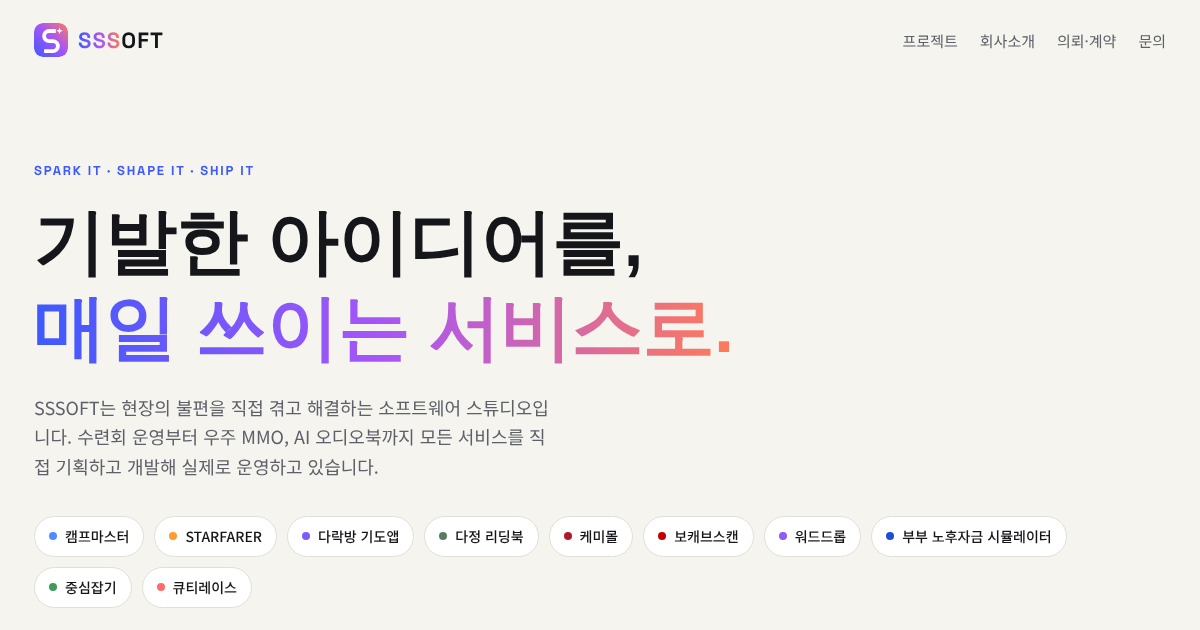
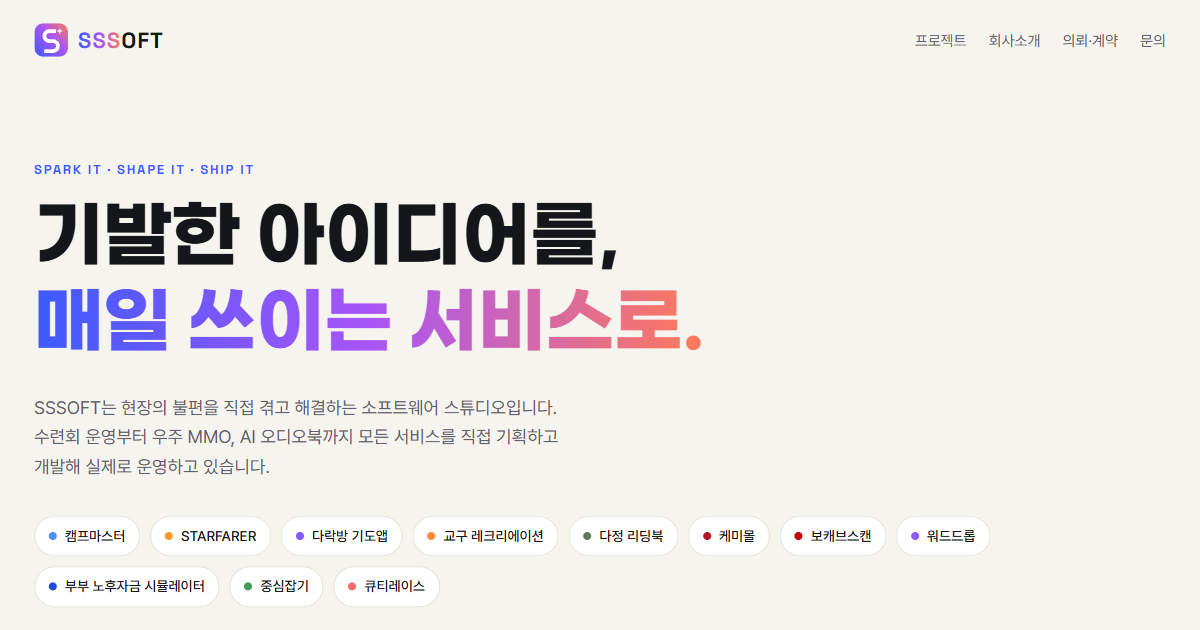
홈 숫자 갱신(서비스 11개·기능 340+), 다정 리딩북 업데이트: 오디오북·웹북 모드, 본문 속 장면 삽화, 고전 34,987권, 삽화 스타일 5가지

diff --git a/public/data.js b/public/data.js
@@ -1301,8 +1301,16 @@ window.PROJECTS=[
   ],
   "gallery": [
    {
+    "src": "gallery/readingbook-webbook-mode.jpg",
+    "cap": "웹북 · 『셜록 홈즈의 모험』. 플레이어 없이 책 한 쪽처럼 읽고, 장면 삽화가 그 장면이 시작되는 문단 위에 놓입니다"
+   },
+   {
+    "src": "gallery/readingbook-audiobook-mode.jpg",
+    "cap": "오디오북 · 『허클베리 핀의 모험』. 낭독 중인 문장이 진하게 표시되고, 본문 속 삽화와 함께 들으며 따라 읽습니다"
+   },
+   {
     "src": "gallery/readingbook-shelf.jpg",
-    "cap": "나의 서재 · 고전 도서관에서 담은 책과 직접 찍은 책이 함께 꽂히고, 책마다 어울리는 화풍(어반 스케치, 실사 사진, 3D 애니메이션 등)으로 처음 그린 장면 삽화가 표지가 됩니다. 외국어 책에는 한국어 번역 표시가 붙습니다"
+    "cap": "나의 서재 · 고전 도서관에서 담은 책과 직접 찍은 책이 함께 꽂히고, 책마다 어울리는 화풍(어반 스케치, 수채 애니메, 3D 애니메이션 등)으로 처음 그린 장면 삽화가 표지가 됩니다. 외국어 책에는 한국어 번역 표시가 붙습니다"
    },
    {
     "src": "gallery/readingbook-newbook.jpg",
@@ -1322,7 +1330,7 @@ window.PROJECTS=[
    },
    {
     "src": "gallery/readingbook-korean-list.jpg",
-    "cap": "고전 도서관 · 책이 정말 많습니다. 한국 고전의 단편·장편·시·희곡·동화가 작가와 분량, 쪽수와 함께 줄줄이 이어지고, 이만큼 보고도 '더 보기'에 38,692권이 남습니다"
+    "cap": "고전 도서관 · 책이 정말 많습니다. 한국 고전의 단편·장편·시·희곡·동화가 작가와 분량, 쪽수와 함께 줄줄이 이어지고, 이만큼 보고도 '더 보기'에도 3만 권 넘게 남습니다"
    }
   ],
   "galleryWide": true,
@@ -1332,8 +1340,8 @@ window.PROJECTS=[
    "cap": "전체화면으로 들으면 장면 삽화가 화면을 가득 채우고, 지금 읽는 문장이 자막으로 따라 나옵니다"
   },
   "frame": "phone",
-  "tagline": "원어 판본 기준 고전 문학 38,812권을 5개 언어로. 국내에 아직 번역되지 않은 고전까지 우리말 오디오북으로 듣고, 내 책은 사진으로 찍어 들으며, 장면마다 삽화까지 그려 줍니다",
-  "overview": "다정 리딩북의 고전 도서관에는 저작권이 끝난 국내외 고전 38,812권이 들어 있어, 책을 고르고 내 책장에 담기만 하면 바로 읽고 들을 수 있습니다. 영어·일본어·독일어·중국어로 쓰인 작품은 처음 열 때 한국어로 번역해 낭독하므로, 국내에 아직 번역되지 않은 수많은 고전도 우리말 오디오북으로 들을 수 있습니다. 가지고 있는 종이책도 몇 장을 사진으로 찍으면 다정 리딩북이 글을 옮겨 적고, 장면의 분위기를 읽어 AI 성우가 감정을 담아 낭독합니다. 영어 원서처럼 다른 언어로 쓰인 책도 사진에서 언어를 알아내 한국어로 번역해 읽어 주고, 원문은 아래에서 함께 볼 수 있습니다. 듣는 동안에는 3D 애니메이션, 어반 스케치, 수채 애니메, 모던 일러스트, 실사 사진, 코믹북 중 고른 스타일로 장면 삽화를 그려 주어 그림책처럼 즐길 수 있습니다. PC, 태블릿, 모바일 어디서나 쓸 수 있고, 넓은 화면에서는 본문과 낭독·삽화를 나란히 띄워 읽으며 들을 수 있습니다.",
+  "tagline": "원어 판본 기준 고전 문학 34,987권을 5개 언어로. 귀로 듣는 오디오북과 눈으로 읽는 웹북을 한 번에 오가고, 본문 속 장면 삽화로 책 한 권이 그림책이 됩니다",
+  "overview": "다정 리딩북의 고전 도서관에는 저작권이 끝난 국내외 고전 34,987권이 들어 있어, 책을 고르고 내 책장에 담기만 하면 바로 읽고 들을 수 있습니다. 영어·일본어·독일어·중국어로 쓰인 작품은 처음 열 때 한국어로 번역해 낭독하므로, 국내에 아직 번역되지 않은 수많은 고전도 우리말 오디오북으로 들을 수 있습니다. 가지고 있는 종이책도 몇 장을 사진으로 찍으면 다정 리딩북이 글을 옮겨 적고, 장면의 분위기를 읽어 AI 성우가 감정을 담아 낭독합니다. 영어 원서처럼 다른 언어로 쓰인 책도 사진에서 언어를 알아내 한국어로 번역해 읽어 주고, 원문은 아래에서 함께 볼 수 있습니다. 장면이 바뀔 때마다 3D 애니메이션, 어반 스케치, 수채 애니메, 모던 일러스트, 코믹북 중 책에 어울리는 스타일로 삽화를 그려, 그림이 그 장면이 시작되는 문단 바로 위에 들어갑니다. 고전은 인물의 얼굴과 옷차림이 처음부터 끝까지 같은 모습으로 그려집니다. 한 권을 귀로 듣는 오디오북과 눈으로 읽는 웹북 중 원하는 방식으로 즐길 수 있고, 웹북에서는 스크롤만 내리면 다음 분량이 삽화와 함께 끝없이 이어집니다. PC, 태블릿, 모바일 어디서나 쓸 수 있고, 넓은 화면에서는 본문과 낭독·삽화를 나란히 띄워 읽으며 들을 수 있습니다.",
   "features": [
    {
     "title": "장면마다 다른 연기",
@@ -1379,17 +1387,21 @@ window.PROJECTS=[
   ],
   "flagship": [
    {
-    "title": "고전 문학 원서 38,812권",
+    "title": "고전 문학 원서 34,987권",
     "hot": true,
-    "desc": "원어 판본 기준으로 저작권이 끝난 국내외 고전 문학 38,812권(영어 25,465 · 일본어 11,206 · 독일어 1,500 · 한국어 470 · 중국어 번체 171)이 들어 있습니다. 듣는 사람의 언어(한국어·영어·일본어·중국어 번체·독일어)로 번역해 들려주므로, 5개 언어로 들을 수 있는 판본은 194,060가지입니다. 촬영할 필요 없이 '내 책장에 담기'만 누르면 바로 읽고 들을 수 있고, 다른 언어 작품은 처음 열 때 번역합니다."
+    "desc": "원어 판본 기준으로 저작권이 끝난 국내외 고전 문학 34,987권(영어 22,648 · 일본어 10,319 · 독일어 1,335 · 한국어 527 · 중국어 번체 158)이 들어 있습니다. 듣는 사람의 언어(한국어·영어·일본어·중국어 번체·독일어)로 번역해 들려주므로, 5개 언어로 들을 수 있는 판본은 174,935가지입니다. 촬영할 필요 없이 '내 책장에 담기'만 누르면 바로 읽고 들을 수 있고, 다른 언어 작품은 처음 열 때 번역합니다."
+   },
+   {
+    "title": "오디오북 · 웹북 두 가지 모드",
+    "desc": "분량마다 제목 옆 '오디오북 | 웹북' 버튼으로 듣기와 읽기를 바꿉니다. 웹북에서는 플레이어가 사라지고 책 한 쪽처럼 본문만 남으며, 스크롤을 내리면 다음 분량이, 올리면 앞 분량이 이어져 한 권을 끊김 없이 읽습니다. 읽던 자리는 그대로 기억되어 오디오북으로 바꾸면 그 자리부터 이어서 들려줍니다."
+   },
+   {
+    "title": "본문 속 장면 삽화",
+    "desc": "장면이 바뀔 때마다 삽화를 그려 그 장면이 시작되는 문단 바로 위에 넣습니다. 그림은 잘리지 않고 제 모양 그대로, 가장자리가 종이에 스며들듯 부드럽게 놓이고, 누르면 크게 볼 수 있습니다. 고전은 앞서 그린 그림을 최대 8장까지 참고해 그리므로 인물이 처음부터 끝까지 같은 얼굴로 나옵니다. 스타일은 3D 애니메이션·어반 스케치·수채 애니메·모던 일러스트·코믹북 5가지입니다."
    },
    {
     "title": "원서도 한글로 낭독",
     "desc": "사진 속 책의 언어를 자동으로 알아내고, 한국어가 아니면 한국어로 번역해 AI 성우가 읽어 줍니다. 원문은 아래에서 함께 볼 수 있어 원서 공부에도 좋습니다."
-   },
-   {
-    "title": "6가지 스타일 장면 삽화",
-    "desc": "3D 애니메이션, 어반 스케치, 수채 애니메, 모던 일러스트, 실사 사진, 코믹북 중 고른 스타일로 장면이 바뀔 때마다 삽화를 새로 그려, 듣는 책이 그림책이 됩니다."
    },
    {
     "title": "촬영 한 번으로 오디오북 완성",
@@ -1407,11 +1419,11 @@ window.PROJECTS=[
   "stages": [
    {
     "stage": "고전 도서관",
-    "summary": "저작권이 끝난 국내외 고전 38,812권",
+    "summary": "저작권이 끝난 국내외 고전 34,987권",
     "items": [
      {
-      "title": "원서 38,812권 고전 목록",
-      "desc": "원어 판본 기준으로 영어 25,465권, 일본어 11,206권, 독일어 1,500권, 한국어 470권, 중국어 번체 171권이 들어 있습니다. 한국어 작품은 위키문헌, 영어·독일어·중국어 작품은 Project Gutenberg, 일본어 작품은 아오조라 문고에서 가져옵니다."
+      "title": "원서 34,987권 고전 목록",
+      "desc": "원어 판본 기준으로 영어 22,648권, 일본어 10,319권, 독일어 1,335권, 한국어 527권, 중국어 번체 158권이 들어 있습니다. 한국어 작품은 위키문헌, 영어·독일어·중국어 작품은 Project Gutenberg, 일본어 작품은 아오조라 문고에서 가져옵니다."
      },
      {
       "title": "제목·작가·언어·장르로 찾기",
@@ -1449,7 +1461,7 @@ window.PROJECTS=[
      },
      {
       "title": "삽화 스타일 선택",
-      "desc": "삽화를 끄거나 3D 애니메이션·어반 스케치·수채 애니메·모던 일러스트·실사 사진·코믹북 중에서 고르면 책 전체에 같은 스타일이 적용됩니다."
+      "desc": "삽화를 끄거나 3D 애니메이션·어반 스케치·수채 애니메·모던 일러스트·코믹북 중에서 고르면 책 전체에 같은 스타일이 적용됩니다."
      },
      {
       "title": "책 언어·번역 설정",
@@ -1518,8 +1530,8 @@ window.PROJECTS=[
     ]
    },
    {
-    "stage": "낭독·삽화·번역",
-    "summary": "장면에 맞춘 목소리, 삽화, 번역으로 감상합니다.",
+    "stage": "낭독·웹북·삽화·번역",
+    "summary": "듣거나 읽거나, 장면 삽화와 번역까지 한 화면에서 감상합니다.",
     "items": [
      {
       "title": "끊김 없는 이어 읽기",
@@ -1530,12 +1542,36 @@ window.PROJECTS=[
       "desc": "재생 속도 조절, 일시정지, 이어듣기, 처음부터 재생을 지원합니다."
      },
      {
-      "title": "장면 삽화·자막",
-      "desc": "3~12구간마다 장면에 맞는 삽화를 새로 그리고(한 장에 약 50원), 자막도 함께 보여 줍니다."
+      "title": "오디오북 | 웹북 전환",
+      "desc": "분량 제목 옆 버튼으로 듣기와 읽기를 바꾸며, 고른 방식은 기기에 기억됩니다."
+     },
+     {
+      "title": "끝없이 이어지는 웹북",
+      "desc": "스크롤을 내리면 다음 분량, 올리면 앞 분량이 이어지고, 다음 고전 분량은 미리 번역해 둡니다."
+     },
+     {
+      "title": "본문 속 장면 삽화",
+      "desc": "3~12구간마다 장면이 바뀔 때 삽화를 그려 그 장면이 시작되는 문단 위에 넣고, 읽는 위치보다 앞서 미리 그려 둡니다."
+     },
+     {
+      "title": "한결같은 등장인물",
+      "desc": "고전은 앞서 그린 그림을 최대 8장까지 참고해, 몇 장(章)을 건너뛰어도 인물이 같은 얼굴과 옷차림으로 나옵니다."
+     },
+     {
+      "title": "고전은 모두를 위해 한 번",
+      "desc": "고전은 책에 가장 어울리는 삽화 스타일을 골라 한 번 그린 그림을 모든 독자가 함께 보고, 다른 언어로 들어도 같은 장면에는 같은 그림이 나옵니다."
+     },
+     {
+      "title": "전체화면 자막",
+      "desc": "전체화면으로 들으면 삽화가 화면을 가득 채우고 지금 읽는 문장이 자막으로 따라 나옵니다."
      },
      {
       "title": "번역 낭독",
       "desc": "원서를 내 언어로 번역해 낭독하고 원문은 아래에 보여 주며, 번역 진행률도 표시합니다."
+     },
+     {
+      "title": "우리말 높임법·문장부호",
+      "desc": "한국어 번역은 관계에 맞는 존댓말·반말을 책 끝까지 한결같이 지키고, 따옴표 같은 문장부호는 각 언어의 책 인쇄 방식대로 맞춥니다."
      },
      {
       "title": "읽는 구간 표시·자동 따라가기",
@@ -1644,20 +1680,20 @@ window.PROJECTS=[
   ],
   "numbers": [
    {
-    "value": "38,812권",
+    "value": "34,987권",
     "label": "원어 판본 기준 저작권 만료 고전 문학 (영·일·독·한·중 원서)"
    },
    {
-    "value": "6가지",
-    "label": "삽화 스타일 (3D 애니메이션·어반 스케치·수채 애니메·모던 일러스트·실사 사진·코믹북)"
+    "value": "5가지",
+    "label": "삽화 스타일 (3D 애니메이션·어반 스케치·수채 애니메·모던 일러스트·코믹북)"
    },
    {
     "value": "7명",
     "label": "AI 성우 (내용에 맞춰 자동 추천)"
    },
    {
-    "value": "194,060가지",
-    "label": "5개 언어로 들을 수 있는 고전 판본 (원서 38,812권 × 한·영·일·중·독)"
+    "value": "174,935가지",
+    "label": "5개 언어로 들을 수 있는 고전 판본 (원서 34,987권 × 한·영·일·중·독)"
    }
   ]
  },

diff --git a/public/index.html b/public/index.html
@@ -4,12 +4,12 @@
 <meta charset="UTF-8">
 <meta name="viewport" content="width=device-width,initial-scale=1">
 <title>SSSOFT — 앱·웹 서비스 개발 스튜디오</title>
-<meta name="description" content="SSSOFT는 아이디어를 매일 쓰이는 서비스로 만드는 소프트웨어 스튜디오입니다. 캠프마스터, STARFARER, 다락방 기도앱, 다정 리딩북, 케미몰, 보캐브스캔, 워드드롭, 부부 노후자금 시뮬레이터, 중심잡기, 큐티레이스를 직접 기획·개발해 운영합니다. 앱·웹 개발 의뢰: sssoft1004@gmail.com">
+<meta name="description" content="SSSOFT는 아이디어를 매일 쓰이는 서비스로 만드는 소프트웨어 스튜디오입니다. 캠프마스터, STARFARER, 다락방 기도앱, 교구 레크리에이션, 다정 리딩북, 케미몰, 보캐브스캔, 워드드롭, 부부 노후자금 시뮬레이터, 중심잡기, 큐티레이스를 직접 기획·개발해 운영합니다. 앱·웹 개발 의뢰: sssoft1004@gmail.com">
 <link rel="canonical" href="https://sssoft-idea.web.app/">
 <meta property="og:type" content="website">
 <meta property="og:site_name" content="SSSOFT">
 <meta property="og:title" content="SSSOFT — 기발한 아이디어를, 매일 쓰이는 서비스로.">
-<meta property="og:description" content="SSSOFT는 아이디어를 매일 쓰이는 서비스로 만드는 소프트웨어 스튜디오입니다. 캠프마스터, STARFARER, 다락방 기도앱, 다정 리딩북, 케미몰, 보캐브스캔, 워드드롭, 부부 노후자금 시뮬레이터, 중심잡기, 큐티레이스를 직접 기획·개발해 운영합니다. 앱·웹 개발 의뢰: sssoft1004@gmail.com">
+<meta property="og:description" content="SSSOFT는 아이디어를 매일 쓰이는 서비스로 만드는 소프트웨어 스튜디오입니다. 캠프마스터, STARFARER, 다락방 기도앱, 교구 레크리에이션, 다정 리딩북, 케미몰, 보캐브스캔, 워드드롭, 부부 노후자금 시뮬레이터, 중심잡기, 큐티레이스를 직접 기획·개발해 운영합니다. 앱·웹 개발 의뢰: sssoft1004@gmail.com">
 <meta property="og:url" content="https://sssoft-idea.web.app/">
 <meta property="og:image" content="https://sssoft-idea.web.app/og-image.png">
 <meta property="og:image:width" content="1200">
@@ -249,8 +249,8 @@ h1,h2,h3,.hero h1,.sec-head h2,.about h2,.process h2,.reeltxt h2,.contact h2,.bo
     <p>SSSOFT는 현장의 불편을 직접 겪고 해결하는 소프트웨어 스튜디오입니다. 수련회 운영부터 우주 MMO, AI 오디오북까지 모든 서비스를 직접 기획하고 개발해 실제로 운영하고 있습니다.</p>
     <div class="marquee" id="quick"></div>
     <div class="stats">
-      <div><b>10</b><small>출시·운영 중인 서비스</small></div>
-      <div><b>250+</b><small>서비스에 담긴 기능</small></div>
+      <div><b>11</b><small>출시·운영 중인 서비스</small></div>
+      <div><b>340+</b><small>서비스에 담긴 기능</small></div>
       <div><b>17+</b><small>지원 언어 (보캐브스캔)</small></div>
       <div><b>100%</b><small>자체 기획·개발·운영</small></div>
     </div>
@@ -288,7 +288,7 @@ h1,h2,h3,.hero h1,.sec-head h2,.about h2,.process h2,.reeltxt h2,.contact h2,.bo
       </article>
       <article>
         <svg class="ic" viewBox="0 0 48 48" aria-hidden="true"><defs><linearGradient id="g-ship" x1="0" y1="1" x2="1" y2="0"><stop offset="0" stop-color="#3d5afe"/><stop offset=".55" stop-color="#a855f7"/><stop offset="1" stop-color="#ff7a59"/></linearGradient></defs><rect width="48" height="48" rx="13" fill="url(#g-ship)"/><g fill="none" stroke="#fff" stroke-width="2.6" stroke-linecap="round" stroke-linejoin="round"><path d="M24 10 c5 4 7 9 7 15 l-3 6 h-8 l-3 -6 c0 -6 2 -11 7 -15z"/><circle cx="24" cy="21" r="2.6"/><path d="M17 25 l-4 5 4 2 M31 25 l4 5 -4 2"/><path d="M22 35 l2 4 2 -4"/></g></svg><em>03 · SHIP</em><h3>내보내고, 끝까지 운영합니다</h3>
-        <p>만들고 끝나는 프로젝트는 없습니다. 10개의 서비스가 지금도 웹, PWA, Google Play에서 실제 사용자를 만나고 있고, SSSOFT는 그 서비스들을 직접 운영하며 계속 키워 갑니다.</p>
+        <p>만들고 끝나는 프로젝트는 없습니다. 11개의 서비스가 지금도 웹, PWA, Google Play에서 실제 사용자를 만나고 있고, SSSOFT는 그 서비스들을 직접 운영하며 계속 키워 갑니다.</p>
         <small>웹 · PWA · Google Play · 실시간 운영</small>
       </article>
     </div>
@@ -403,9 +403,9 @@ function fitText(root){
 }
 render("all");
 // 다정 리딩북 고전 권수를 실시간으로: live/readingbook-classics.json(앱의 classics/index.json을 GitHub Actions가
-// 매일 받아 옴)을 읽어 data.js에 적힌 기준 숫자(원어 판본 38,812권 · 5개 언어 194,060가지 · 언어별 권수)를 바꾼다.
+// 매일 받아 옴)을 읽어 data.js에 적힌 기준 숫자(원어 판본 34,987권 · 5개 언어 174,935가지 · 언어별 권수)를 바꾼다.
 // 못 읽으면 data.js 숫자가 그대로 보인다.
-const BOOK_BASE = { ko: 470, en: 25465, ja: 11206, de: 1500, "zh-TW": 171 };
+const BOOK_BASE = { ko: 527, en: 22648, ja: 10319, de: 1335, "zh-TW": 158 };
 const BOOK_LABELS = { en: "영어", ja: "일본어", de: "독일어", ko: "한국어", "zh-TW": "중국어 번체" };
 function applyBookCounts(langs){
   const p = P.find(x => x.id === "readingbook"); if (!p || !langs) return false;

diff --git a/CLAUDE.md b/CLAUDE.md
@@ -57,7 +57,9 @@ scene?{src,cap,card?}, video?(.mp4면 세로 영상 플레이어), videoPoster?,
   명찰 QR 현장 관리(입실·퇴실·버스 탑승·상벌점·방키), 자동 카풀 매칭, 접는 양면 명찰 자동 출력, 운영 도구 앱 13개.
 - STARFARER의 첫 번째 강점은 **안정적인 실시간 멀티플레이**.
 - 다정 리딩북은 앱의 저작권 안내에 맞춰 공유를 "기기 간 백업"으로만 소개한다 (가족 공유 표현 금지).
-- 다정 리딩북의 첫 번째 강점은 **고전 문학 38,812권** (카드에 "고전 문학 38,812권"으로 굵고 밝게 표시, flagship의 hot) (readingBook 저장소 classics/index.json의 언어별 권수 합계, 2026-10-15 기준: 영 25,465·일 11,206·독 1,500·한 470·중 171). **원어 판본 기준**임을 함께 밝히고, 5개 언어(한·영·일·중 번체·독)로 들을 수 있는 판본 수(권수×5 = 194,060가지)를 같이 쓴다. 권수는 자동으로 따라간다: `.github/workflows/readingbook-count.yml`이 매일 03:17(KST)
+- 다정 리딩북 대표 기능 2·3번은 **오디오북 · 웹북 두 가지 모드**와 **본문 속 장면 삽화**. 사용자 삽화 스타일은 5가지
+  (실사 사진은 관리자 전용이라 소개하지 않는다). 인물 일관성(앞 그림 최대 8장 참고)은 고전 기준으로 쓴다.
+- 다정 리딩북의 첫 번째 강점은 **고전 문학 34,987권** (카드에 "고전 문학 34,987권"으로 굵고 밝게 표시, flagship의 hot) (readingBook 저장소 classics/index.json의 언어별 권수 합계, 2026-10-18 기준: 영 22,648·일 10,319·독 1,335·한 527·중 158). **원어 판본 기준**임을 함께 밝히고, 5개 언어(한·영·일·중 번체·독)로 들을 수 있는 판본 수(권수×5 = 174,935가지)를 같이 쓴다. 권수는 자동으로 따라간다: `.github/workflows/readingbook-count.yml`이 매일 03:17(KST)
   앱의 https://dajeong-audiobook-2026.web.app/classics/index.json 을 읽어 `public/live/readingbook-classics.json`을
   갱신·배포하고, `index.html`의 applyBookCounts가 data.js에 적힌 기준 숫자(BOOK_BASE)를 화면에서 새 숫자로 바꾼다.
   data.js 문구를 직접 고칠 때는 BOOK_BASE도 같은 숫자로 맞춘다.
